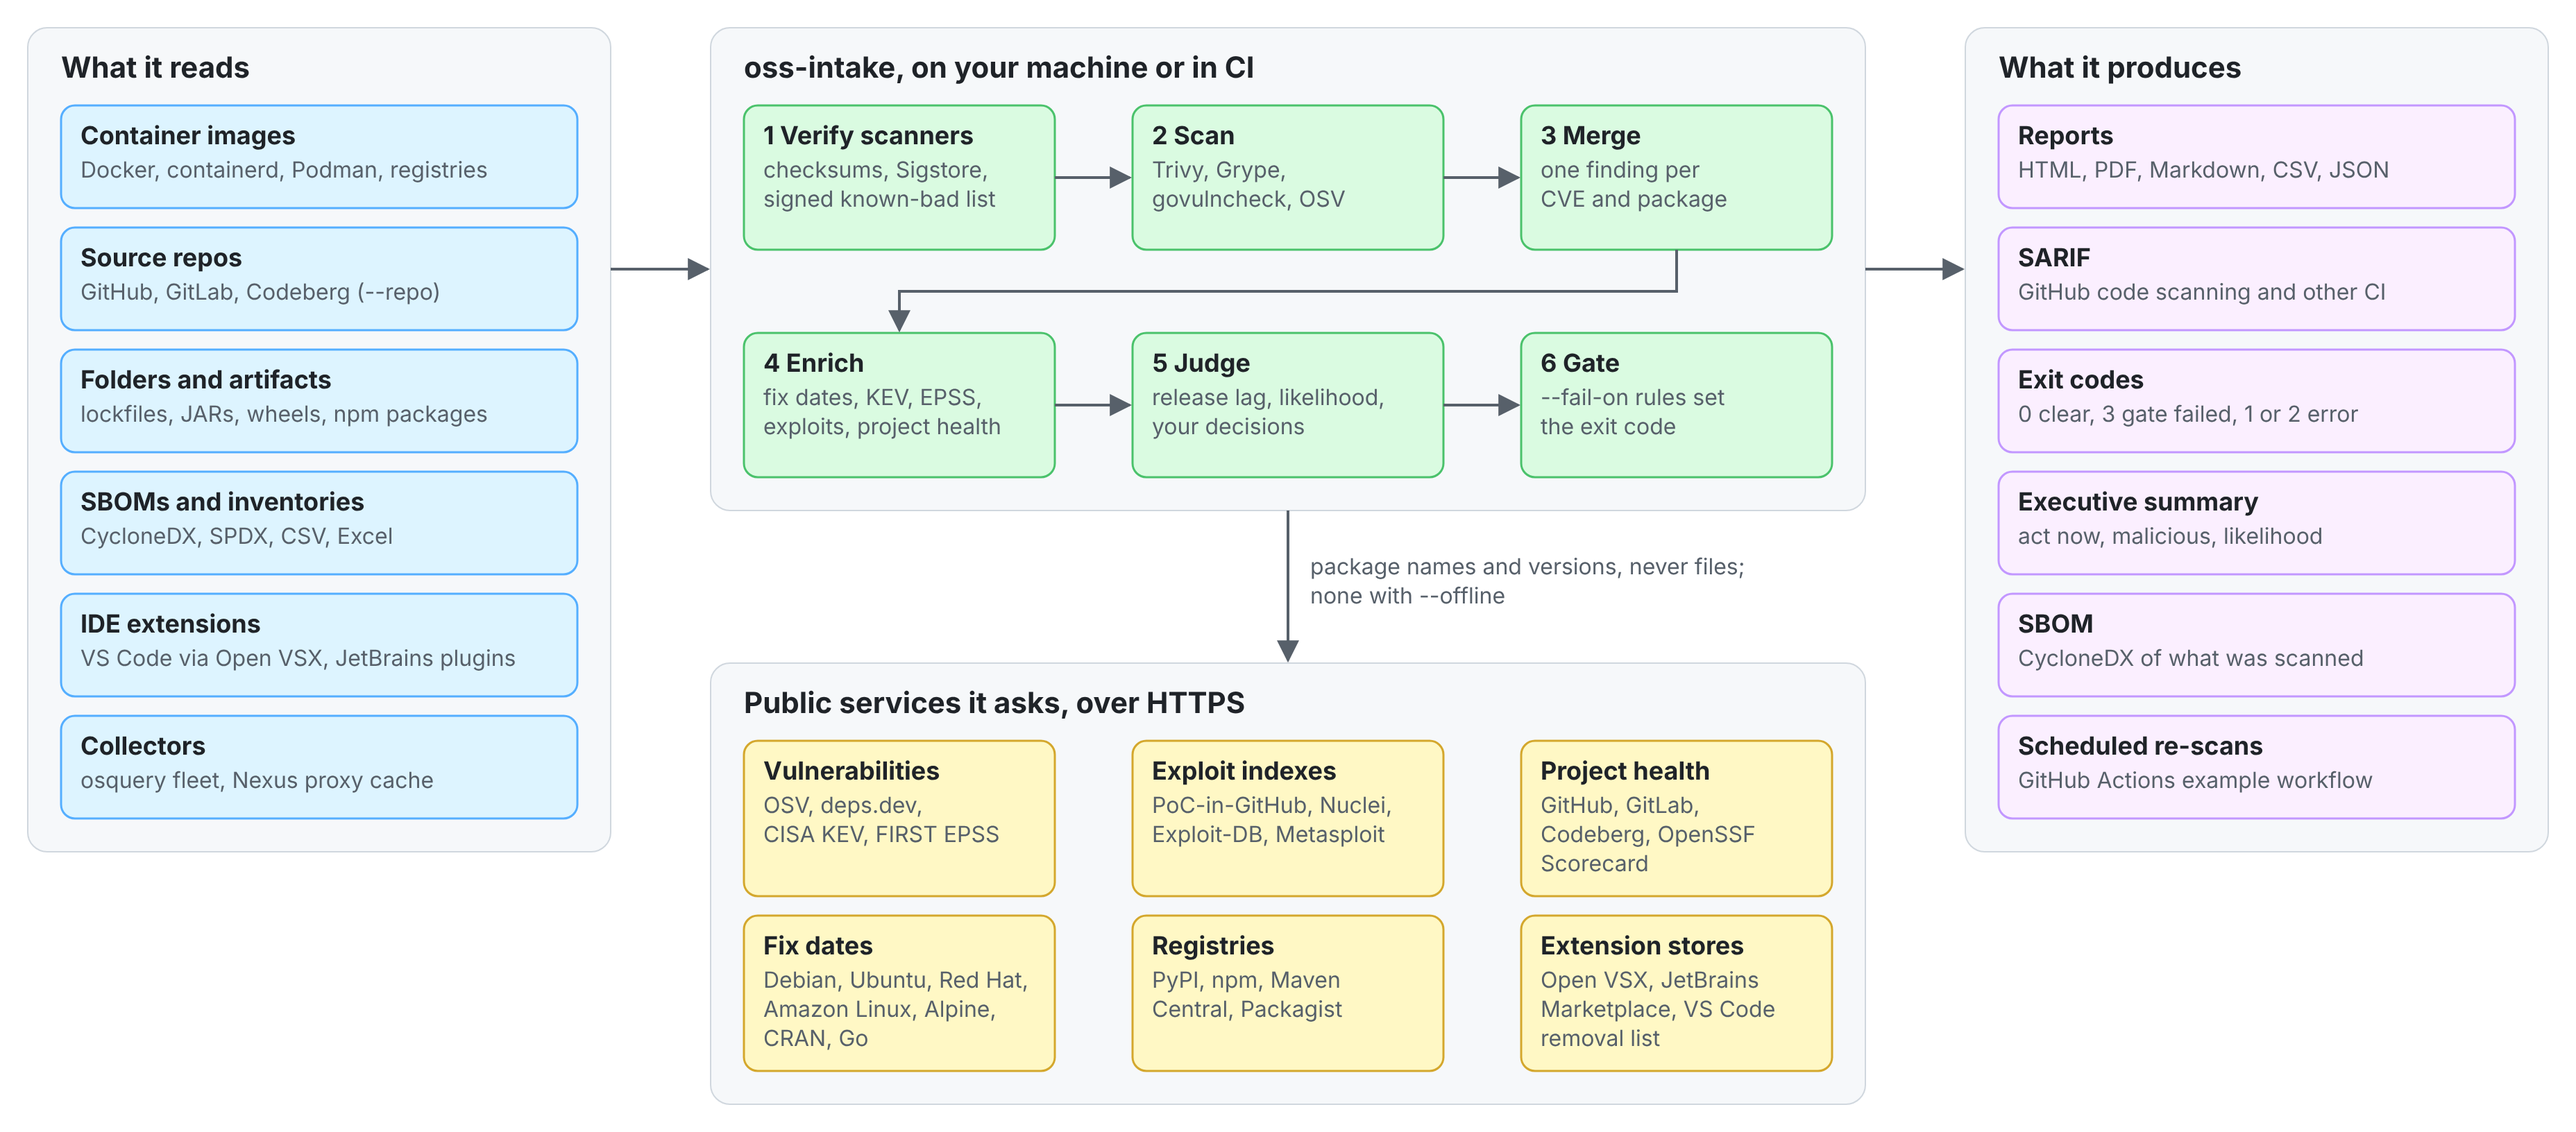
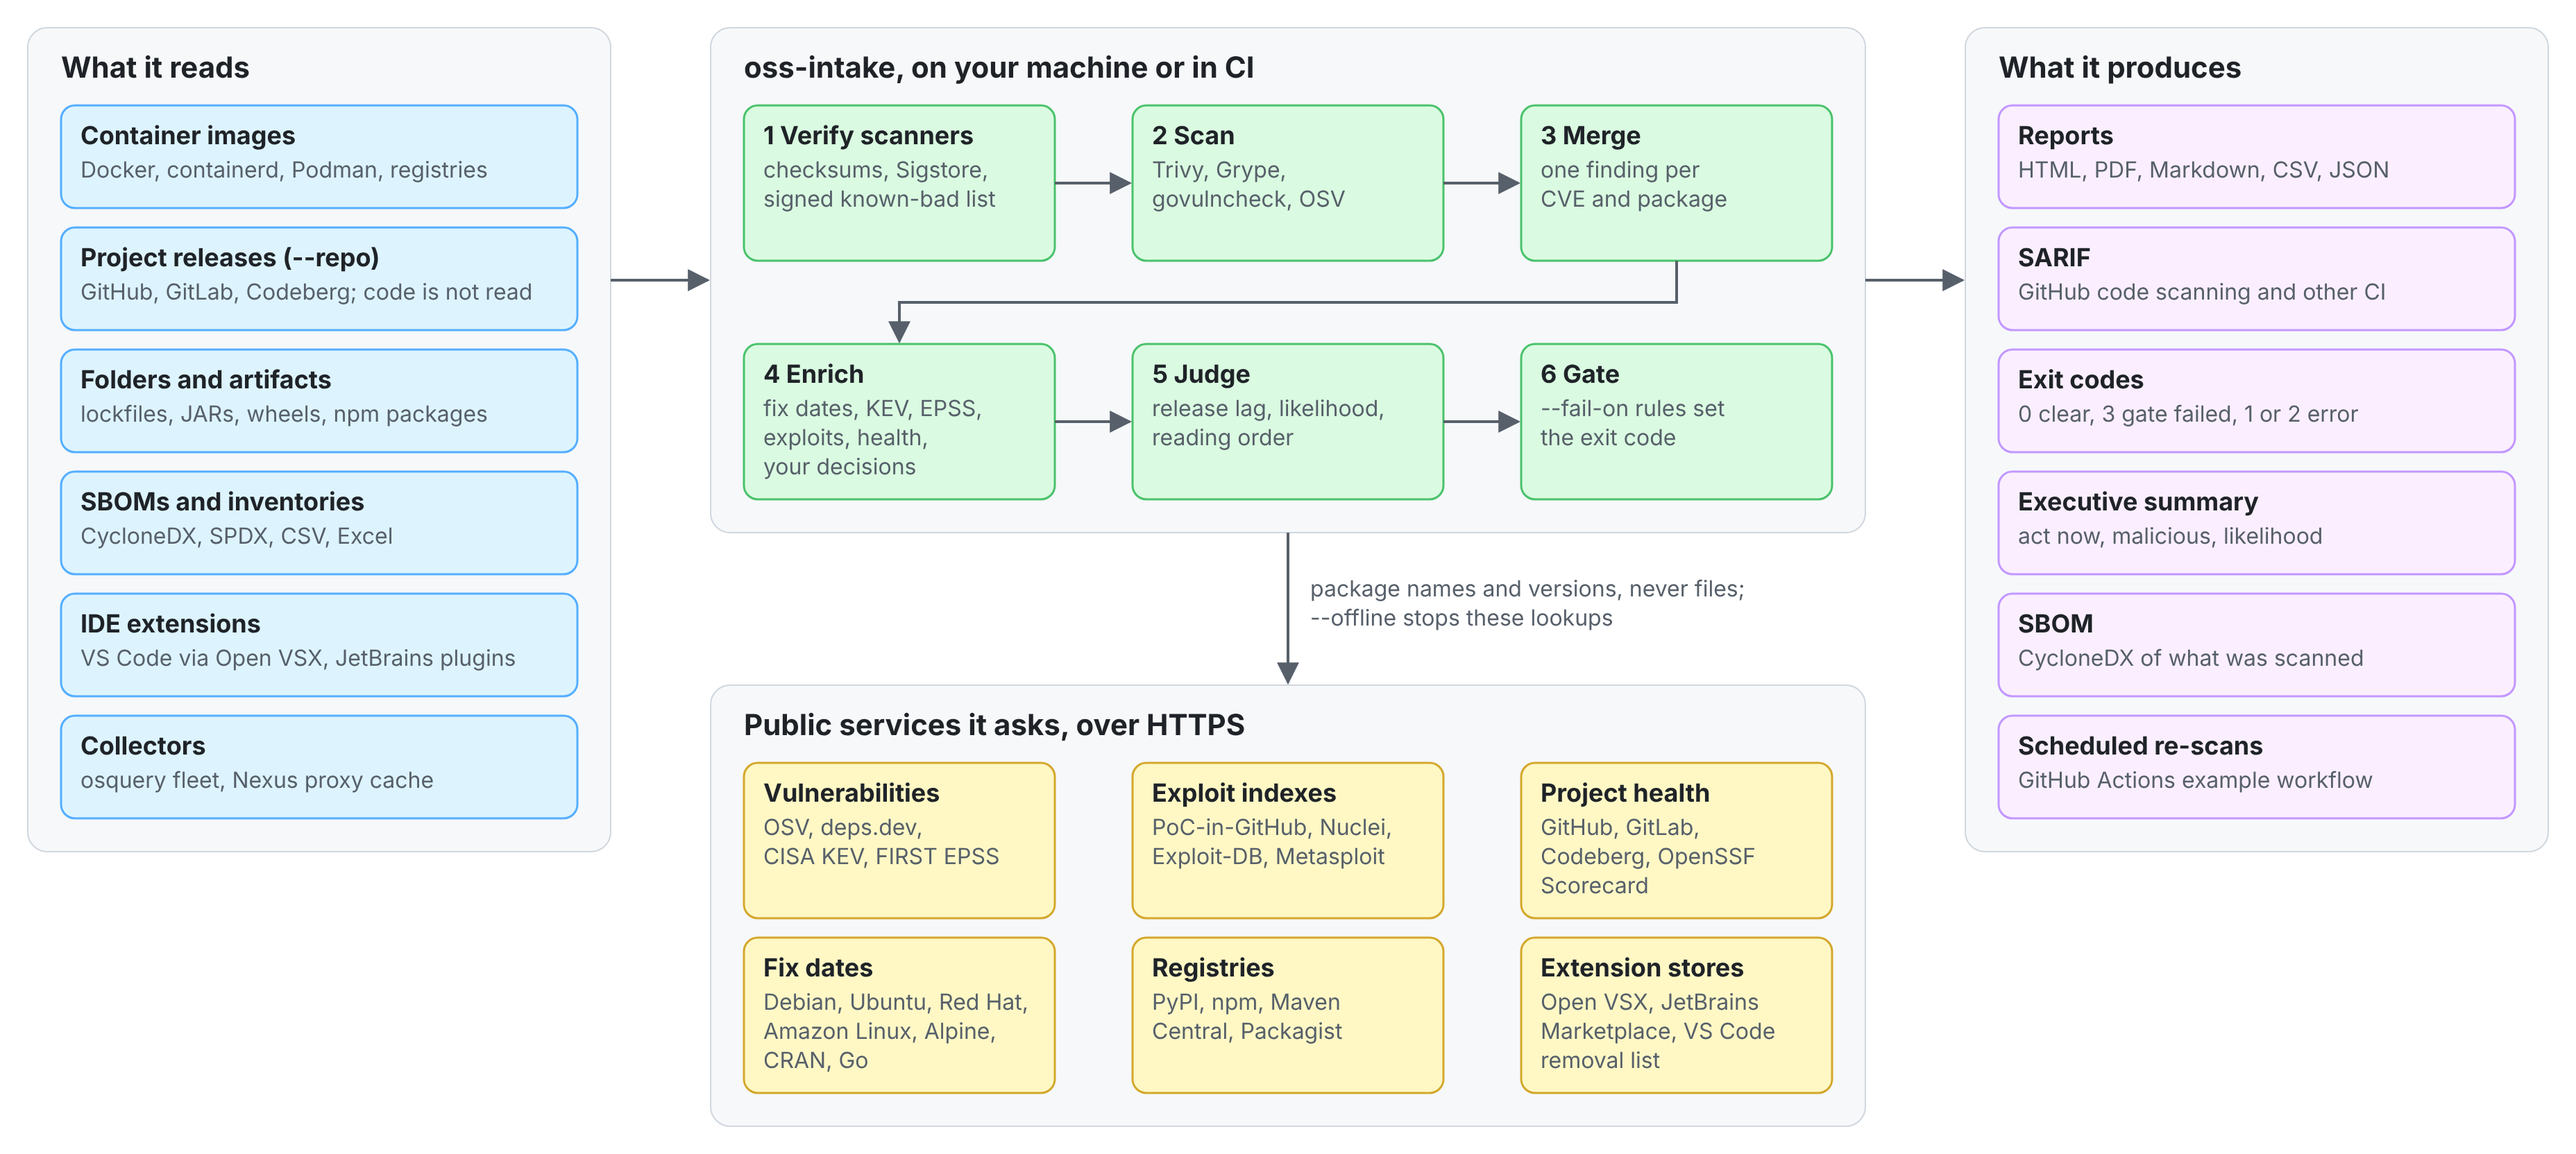
Fixes from the 0.21.0 pre-release review
- Every report's release-lag note still said Amazon Linux had no dated source;
  it now names the ALAS advisories (and docs/architecture.md lists them).
- A redirect to an address that cannot be read ("https://[bad/x") raised
  ValueError out of a request, which no caller expects; with the ALAS page
  lookups it ended the run with a traceback. It is now the source failing
  (HttpError), and the page lookup also counts any ValueError as a failure.
- An ALAS page site answering 403, 429 or 5xx was asked for all 300 pages;
  error statuses now count toward stopping. "pages" counts pages actually read.
- The CHANGELOG said a download signed by someone else is refused even without
  the signatures extra; only a missing signature is, as the guide says.
- The architecture picture: --repo reads project releases and health, not code;
  --offline stops oss-intake's own lookups (the scanners still update their
  databases); decisions are applied in Enrich.

Claude-Session: https://claude.ai/code/session_01RDmvbFGzhLothY7cmGiquy

diff --git a/tests/test_amazon.py b/tests/test_amazon.py
@@ -396,3 +396,52 @@ def test_a_whole_run_warns_when_pages_were_not_read(tmp_path, fixtures):
     assert code == cli.EXIT_OK
     a = json.loads((out / "assessment.json").read_text(encoding="utf-8"))
     assert any("1 Amazon Linux advisory pages" in w and "issued date" in w for w in a["warnings"])
+
+
+# ------------------------------------------------------------------------------------------- pre-release review
+
+
+def test_a_site_refusing_with_http_statuses_stops_being_asked(monkeypatch):
+    """Pre-release review (0.21.0): only exceptions counted as failures, so a site answering 403 or 429 was still
+    asked for every page."""
+    monkeypatch.setattr(amazon, "PAGE_WORKERS", 1)
+
+    class Refusing(FakeHttp):
+        def get_text(self, url, *a, **kw):
+            if urlparse(url).hostname == "alas.aws.amazon.com":
+                self.calls.append(url)
+                return 403, "Request blocked"
+            return super().get_text(url, *a, **kw)
+
+    http = Refusing()
+    serve(http)
+    fs = [finding("rsyslog", "8.2204.0-3.amzn2023.0.2", "CVE-2022-24903"),
+          finding("openssl", "3.0.8-1.amzn2023.0.1", "CVE-2022-2097"),
+          finding("openssl", "3.0.5-1.amzn2023.0.4", "CVE-2022-2097"),
+          finding("kernel-libbpf-static", "6.1.23-36.46.amzn2023", "CVE-2023-1583")]
+    stats = amazon.enrich(http, fs)
+    assert sum(urlparse(u).hostname == "alas.aws.amazon.com" for u in http.calls) == amazon.MAX_PAGE_FAILURES
+    assert stats["pages"] == 0 and stats["pages_unread"] == 5 and stats["found"] == 4
+
+
+def test_a_value_error_from_a_page_fetch_is_a_failure_not_a_crash():
+    class Odd(FakeHttp):
+        def get_text(self, url, *a, **kw):
+            if urlparse(url).hostname == "alas.aws.amazon.com":
+                raise ValueError("Invalid IPv6 URL")
+            return super().get_text(url, *a, **kw)
+
+    http = Odd()
+    serve(http)
+    f = finding("rsyslog", "8.2204.0-3.amzn2023.0.2", "CVE-2022-24903")
+    stats = amazon.enrich(http, [f])
+    assert "issued date" in f.fix_date_source and stats["pages_unread"] == 1
+
+
+def test_the_report_no_longer_says_amazon_linux_is_undated():
+    """Pre-release review (0.21.0): the release-lag note in every report still said Amazon Linux had no dated
+    source."""
+    from oss_intake import report
+
+    note = report.lag_note({"grace_days": 7, "unshipped_days": 30})
+    assert "Amazon Linux advisories (ALAS" in note and "Amazon Linux has no dated source" not in note

diff --git a/src/oss_intake/enrich/amazon.py b/src/oss_intake/enrich/amazon.py
@@ -203,14 +203,17 @@ def _released_dates(http: Http, advs: list[str], stats: dict) -> dict[str, datet
             return adv, None
         try:
             status, html = http.get_text(page_url(adv) or "")
-        except HttpError:
+        except (HttpError, ValueError):
             failures[0] += 1
             return adv, None
-        return adv, released(html) if status == 200 else None
+        if status != 200:  # a block or rate limit (403, 429, 5xx) counts too, so a refusing site is not asked 300 times
+            failures[0] += 1
+            return adv, None
+        return adv, released(html)
 
     with ThreadPoolExecutor(max_workers=PAGE_WORKERS, thread_name_prefix="oss-intake-alas") as pool:
         got = dict(pool.map(one, todo))
-    stats["pages"] = len(todo)
+    stats["pages"] = sum(1 for v in got.values() if v is not None)
     stats["pages_unread"] = sum(1 for v in got.values() if v is None) + stats["skipped_limit"]
     return {a: d for a, d in got.items() if d}
 
@@ -219,8 +222,8 @@ def enrich(http: Http, findings: list[Finding]) -> dict:
     """Set fix_published on Amazon Linux 2023 and Amazon Linux 2 findings to the issued date of the ALAS advisory
     that lists the finding's CVE for its package at exactly the fixed version (cdn.amazonlinux.com). Mutates
     findings in place; returns stats: candidates, found, releases (loaded), errors (releases that could not be
-    loaded), error (the reasons), pages (advisory pages read), pages_unread (dated by their issued date instead),
-    skipped_limit (over MAX_PAGES)."""
+    loaded), error (the reasons), pages (advisory pages whose date was read), pages_unread (dated by their issued
+    date instead), skipped_limit (over MAX_PAGES)."""
     stats: dict = {"candidates": 0, "found": 0, "releases": [], "errors": 0, "pages": 0, "pages_unread": 0,
                    "skipped_limit": 0}
     index: dict[str, dict | None] = {}
@@ -237,7 +240,7 @@ def enrich(http: Http, findings: list[Finding]) -> dict:
             try:
                 index[release] = load(http, release)
                 stats["releases"].append(NAMES[release])
-            except (_Bad, HttpError) as exc:
+            except (_Bad, HttpError, ValueError) as exc:
                 index[release] = None
                 stats["errors"] += 1
                 stats["error"] = "; ".join(filter(None, [stats.get("error"), f"{NAMES[release]}: {exc}"]))

diff --git a/scripts/architecture.py b/scripts/architecture.py
@@ -15,7 +15,7 @@ from pathlib import Path
 
 INPUTS = [
     ("Container images", "Docker, containerd, Podman, registries"),
-    ("Source repos", "GitHub, GitLab, Codeberg (--repo)"),
+    ("Project releases (--repo)", "GitHub, GitLab, Codeberg; code is not read"),
     ("Folders and artifacts", "lockfiles, JARs, wheels, npm packages"),
     ("SBOMs and inventories", "CycloneDX, SPDX, CSV, Excel"),
     ("IDE extensions", "VS Code via Open VSX, JetBrains plugins"),
@@ -25,8 +25,8 @@ STEPS = [
     ("1  Verify scanners", ["checksums, Sigstore,", "signed known-bad list"]),
     ("2  Scan", ["Trivy, Grype,", "govulncheck, OSV"]),
     ("3  Merge", ["one finding per", "CVE and package"]),
-    ("4  Enrich", ["fix dates, KEV, EPSS,", "exploits, project health"]),
-    ("5  Judge", ["release lag, likelihood,", "your decisions"]),
+    ("4  Enrich", ["fix dates, KEV, EPSS,", "exploits, health,", "your decisions"]),
+    ("5  Judge", ["release lag, likelihood,", "reading order"]),
     ("6  Gate", ["--fail-on rules set", "the exit code"]),
 ]
 SERVICES = [
@@ -58,7 +58,7 @@ PALETTES = {
 FONT = "Inter, 'Segoe UI', Helvetica, Arial, sans-serif"
 PAD, TITLE_H, GAP = 24, 56, 14
 COL_W, BLOCK_W, BLOCK_H = 420, 372, 74
-STEP_W, STEP_H, STEP_GAP = 224, 104, 56
+STEP_W, STEP_H, STEP_GAP = 224, 112, 56
 MARGIN = 20
 SVC_H = 112
 CORE_X = COL_W + 72
@@ -129,8 +129,8 @@ def svg(p: dict) -> str:
         y = SVC_Y + TITLE_H + (0 if i < 3 else SVC_H + GAP)
         block(x, y, STEP_W, SVC_H, p["svc"], t, lines)
     cx = CORE_X + CORE_W / 2
-    arrow([(cx, CORE_H), (cx, SVC_Y - 2)], ["package names and versions, never files;", "none with --offline"],
-          cx + 16, CORE_H + 46)
+    arrow([(cx, CORE_H), (cx, SVC_Y - 2)],
+          ["package names and versions, never files;", "--offline stops these lookups"], cx + 16, CORE_H + 46)
 
     panel(OUT_X, 0, COL_W, SIDE_H, "What it produces")
     for i, (t, s) in enumerate(OUTPUTS):

diff --git a/src/oss_intake/http.py b/src/oss_intake/http.py
@@ -385,6 +385,8 @@ class RequestsHttp(Http):
             except self._requests.RequestException as exc:
                 # str(exc) can include the URL but not headers; the token is never in the URL.
                 raise HttpError(f"{where}: {type(exc).__name__}") from None
+            except ValueError:  # an address the HTTP library cannot read (a redirect to "https://[bad/x")
+                raise HttpError(f"{where}: an address that cannot be read") from None
             location = (getattr(r, "headers", None) or {}).get("Location")
             if r.status_code not in REDIRECT_CODES or not location:
                 return r, url
@@ -394,8 +396,12 @@ class RequestsHttp(Http):
             if method != "GET":
                 raise HttpError(f"{where}: redirected ({r.status_code}); a request with a body is never redirected, "
                                 "as that would send it on")
-            url = urljoin(url, location)
-            if urlparse(url).scheme != "https":
+            try:
+                url = urljoin(url, location)
+                scheme = urlparse(url).scheme
+            except ValueError:  # e.g. "https://[bad/x": an unparseable target is the source failing
+                raise HttpError(f"{where}: redirected to an address that cannot be read") from None
+            if scheme != "https":
                 raise HttpError(f"{where}: redirected to a non-https address, which is refused")
         raise HttpError(f"{method} {urlparse(url).netloc}: more than {MAX_REDIRECTS} redirects")
 

diff --git a/src/oss_intake/report.py b/src/oss_intake/report.py
@@ -478,8 +478,9 @@ def lag_note(lag: dict) -> str:
             "come from deps.dev and Packagist for language packages (GitHub release dates for Go modules deps.dev "
             "lacks), from Debian advisories (DSA, DLA) and point releases, Ubuntu Security Notices and "
             "Launchpad publishing history, Red Hat "
-            "advisories (RHSA), Alpine aports commits, and the Go release history for the Go standard library. "
-            "Amazon Linux has no dated source yet and is counted as unknown; see the fix date coverage table.")
+            "advisories (RHSA), Alpine aports commits, Amazon Linux advisories (ALAS, for AL2023 and AL2 core), "
+            "and the Go release history for the Go standard library. A fix with no dated source is counted as "
+            "unknown; see the fix date coverage table.")
 
 def _v(x: object, suffix: str = "") -> str:
     return "n/a" if x is None or x == "" else f"{x}{suffix}"

diff --git a/tests/test_scale.py b/tests/test_scale.py
@@ -1106,3 +1106,16 @@ def test_a_launchpad_answer_only_in_proposed_is_not_kept(tmp_path):
                     [{"pocket": "Security", "date_published": None}]):
         c.put(url, 200, {"entries": entries})
         assert c.get(url) is None
+
+
+def test_an_unreadable_redirect_target_is_the_source_failing(monkeypatch):
+    """Pre-release review (0.21.0): a Location urljoin cannot parse raised ValueError out of the request, which no
+    caller expects; with the ALAS page lookups in threads, it ended the run with a traceback."""
+    bases, seen, servers = _servers(monkeypatch, {("a", "/bad"): (302, {"Location": "https://[bad/x"}, b"")})
+    try:
+        h = RequestsHttp(github_token="")
+        with pytest.raises(HttpError, match="cannot be read"):  # by urljoin, or by requests when it fetches
+            h.get_text(f"{bases['a']}/bad")
+    finally:
+        for s in servers:
+            s.shutdown()

diff --git a/README.md b/README.md
@@ -95,10 +95,10 @@ every report; see [What it does not do](#what-it-does-not-do) below.
 
 <picture>
   <source media="(prefers-color-scheme: dark)" srcset="https://raw.githubusercontent.com/ntavakol/OSS-Intake/main/docs/images/architecture-dark.png">
-  <img alt="oss-intake architecture: it reads container images, source repos, folders and artifacts, SBOMs and inventories, IDE extensions and collector output; runs six steps on your machine or in CI (verify scanners, scan, merge, enrich, judge, gate), asking public services over HTTPS for package names and versions only; and produces reports, SARIF, exit codes, an executive summary, an SBOM and scheduled re-scans" src="https://raw.githubusercontent.com/ntavakol/OSS-Intake/main/docs/images/architecture-light.png" width="900">
+  <img alt="oss-intake architecture: it reads container images, project releases, folders and artifacts, SBOMs and inventories, IDE extensions and collector output; runs six steps on your machine or in CI (verify scanners, scan, merge, enrich, judge, gate), asking public services over HTTPS with package names and versions only; and produces reports, SARIF, exit codes, an executive summary, an SBOM and scheduled re-scans" src="https://raw.githubusercontent.com/ntavakol/OSS-Intake/main/docs/images/architecture-light.png" width="900">
 </picture>
 
-The code behind each step is described in [docs/architecture.md](https://github.com/ntavakol/OSS-Intake/blob/main/docs/architecture.md).
+How the code is put together is in [docs/architecture.md](https://github.com/ntavakol/OSS-Intake/blob/main/docs/architecture.md).
 
 ## Install
 

diff --git a/docs/architecture.md b/docs/architecture.md
@@ -48,7 +48,7 @@ The numbers match the stage comments in `src/oss_intake/cli.py` and `assessment.
    (`health.releases`), OpenSSF Scorecard (`health.scorecard`), and an audit of the project's GitHub Actions
    workflows (`health.workflows`).
 4. **Enrichment** (`enrich/`, `release_age`, `decisions`). Fix publication dates from deps.dev, Packagist and
-   the distro sources (Debian, Ubuntu, Red Hat and Alpine trackers and security advisories), CISA KEV, EPSS,
+   the distro sources (Debian, Ubuntu, Red Hat, Alpine and Amazon Linux trackers and security advisories), CISA KEV, EPSS,
    exploit evidence (Metasploit, Nuclei, Exploit-DB, GitHub proofs of concept), release dates of the package
    versions, and the assessor's decisions from an earlier run. Findings are looked up most severe first, since
    some sources cap their lookups.

diff --git a/CHANGELOG.md b/CHANGELOG.md
@@ -9,8 +9,8 @@ and the project uses [Semantic Versioning](https://semver.org/).
 
 A feature release: upgrade from 0.20.0. Amazon Linux findings get fix dates, and the JetBrains Marketplace's
 signature on a plugin is checked. One thing to know: a `--jetbrains-plugin` download without the Marketplace's
-signature, or with someone else's, now stops the run (exit 2), even without the `signatures` extra, because the
-Marketplace signs every file it serves.
+signature, or with someone else's, now stops the run (exit 2), because the Marketplace signs every file it serves.
+A missing signature is caught even without the `signatures` extra; who signed it needs the extra.
 
 ### Added
 
